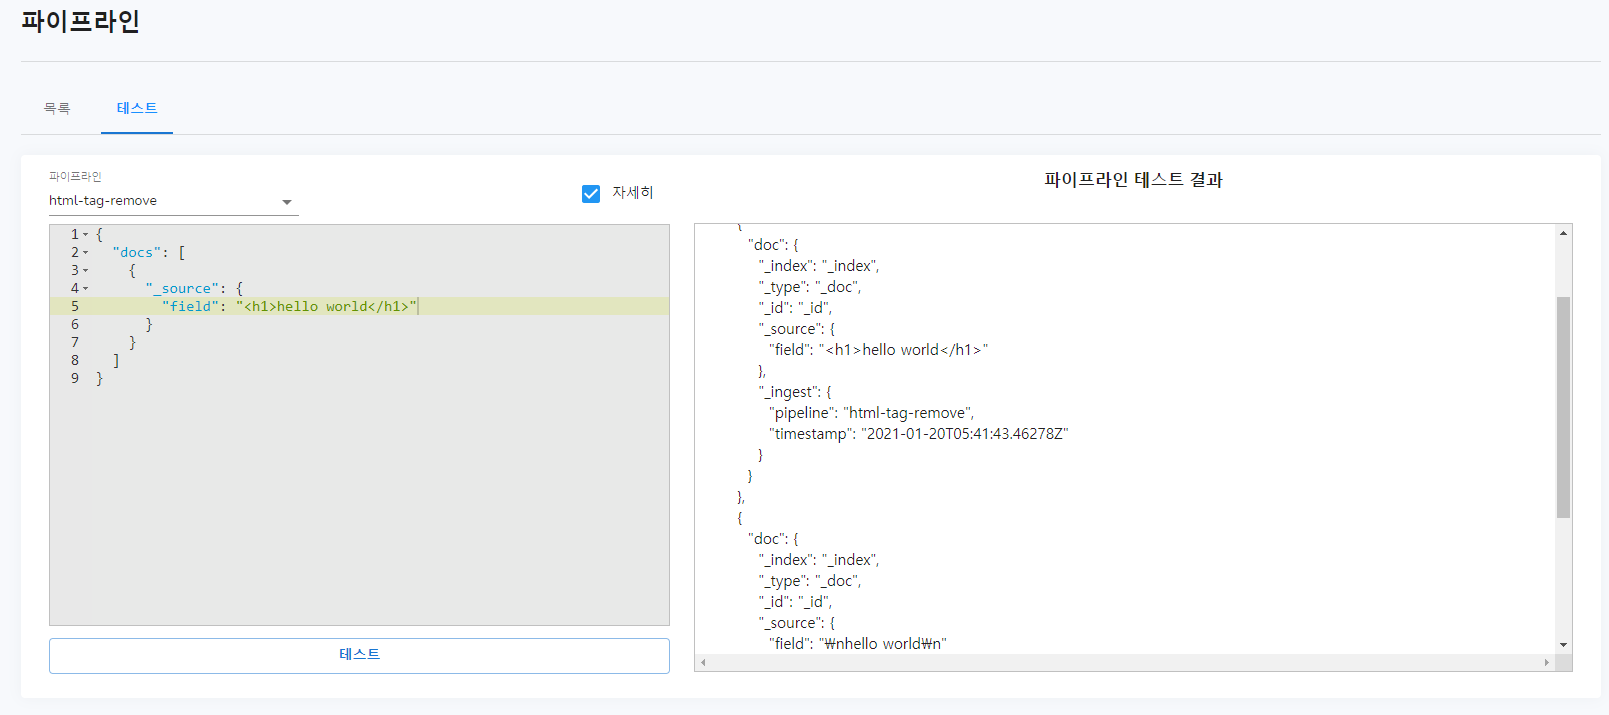
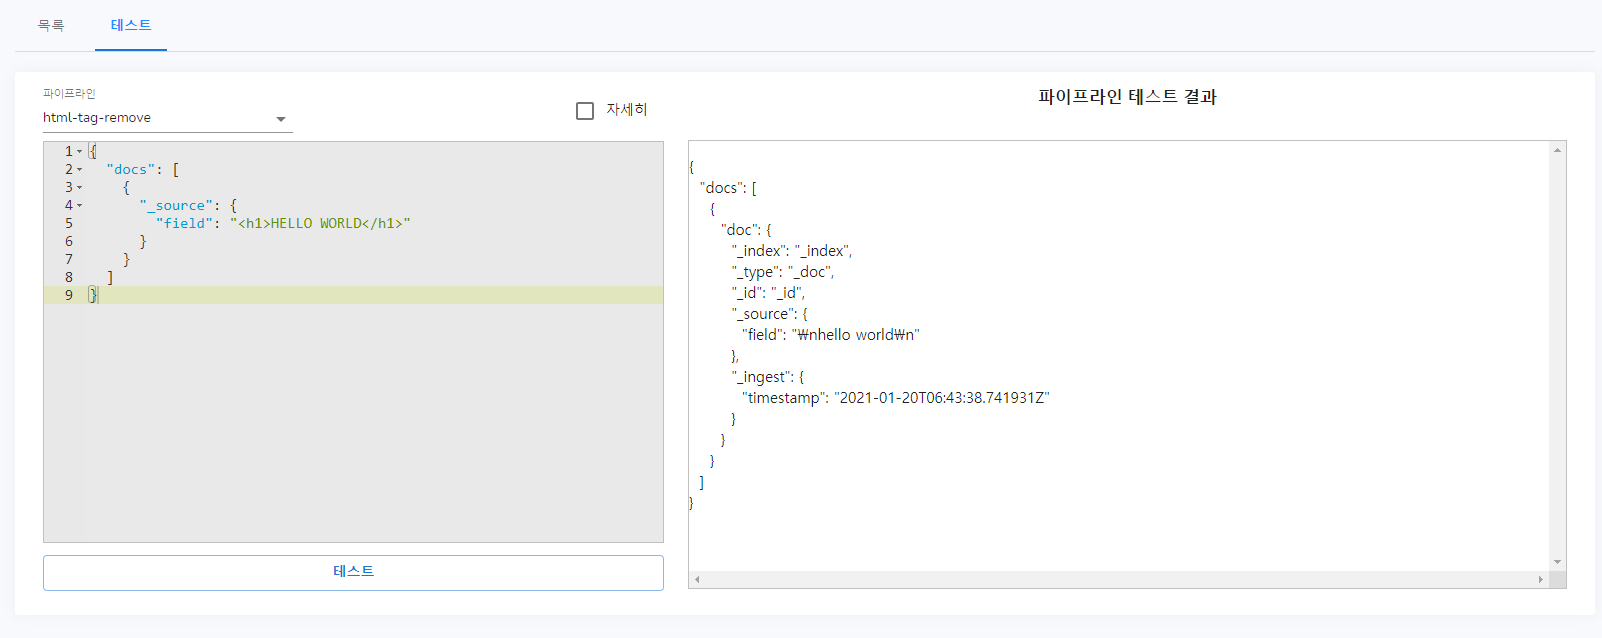
파이프라인 메뉴 수정

diff --git a/_posts/2021-01-20-DSearch-Management-Tool-pipeline.md b/_posts/2021-01-20-DSearch-Management-Tool-pipeline.md
@@ -1,7 +1,7 @@
 ---
 layout: post
 title:  "디서치 관리도구 사용법  #14 - 파이프라인"
-description: "디서치 관리도구 템플릿 메뉴에 대해 소개하고 사용하는 방법에 대해 설명 하도록 하겠습니다." 
+description: "안녕하세요. 이번 포스팅 내용은 다나와에서 개발한 디서치 관리도구(엘라스틱서치 관리도구)에서 파이프라인 메뉴에 대해 소개하는 시간을 가지도록 하겠습니다." 
 date:   2021.01.20. 15:00:00
 writer: "선지호"  
 categories: Elastic 
@@ -74,7 +74,6 @@ categories: Elastic
 
 ![/images/2021-01-20-Dsearch-Management-Tool-pipeline/modify1.png](/images/2021-01-20-Dsearch-Management-Tool-pipeline/modify1.png)
 
-
 ![/images/2021-01-20-Dsearch-Management-Tool-pipeline/modify2.png](/images/2021-01-20-Dsearch-Management-Tool-pipeline/modify2.png)
 
 이번에는 field 안의 내용을 전부 소문자로 만든 후 html 태그를 제거해 보겠습니다.
@@ -85,15 +84,15 @@ categories: Elastic
 
 아까전에 테스트를 진행 했던대로, 테스트 할 파이프라인을 선택하고, 아까와 같은 테스트 할 내용을 입력해 줍니다.
 
-![/images/2021-01-20-Dsearch-Management-Tool-pipeline/test2.png](/images/2021-01-20-Dsearch-Management-Tool-pipeline/test2.png)
-
 ![/images/2021-01-20-Dsearch-Management-Tool-pipeline/test2-1.png](/images/2021-01-20-Dsearch-Management-Tool-pipeline/test2-1.png)
+
+![/images/2021-01-20-Dsearch-Management-Tool-pipeline/test2-2.png](/images/2021-01-20-Dsearch-Management-Tool-pipeline/test2-2.png)
 
 그리고 아래 테스트 버튼을 눌러 테스트를 진행하면 이번에는 저희가 의도했던대로 html 태그는 없어지면서 내용이 소문자로 나올수 있게 변환 했습니다.
 
 이제 자세히를 클릭해서 다시 테스트를 진행해 봅니다.
 
-![/images/2021-01-20-Dsearch-Management-Tool-pipeline/test2-2.png](/images/2021-01-20-Dsearch-Management-Tool-pipeline/test2-2.png)
+![/images/2021-01-20-Dsearch-Management-Tool-pipeline/test2-3.png](/images/2021-01-20-Dsearch-Management-Tool-pipeline/test2-3.png)
 
 각 프로세스별 단계에 따른 결과를 볼 수 있습니다.
 
